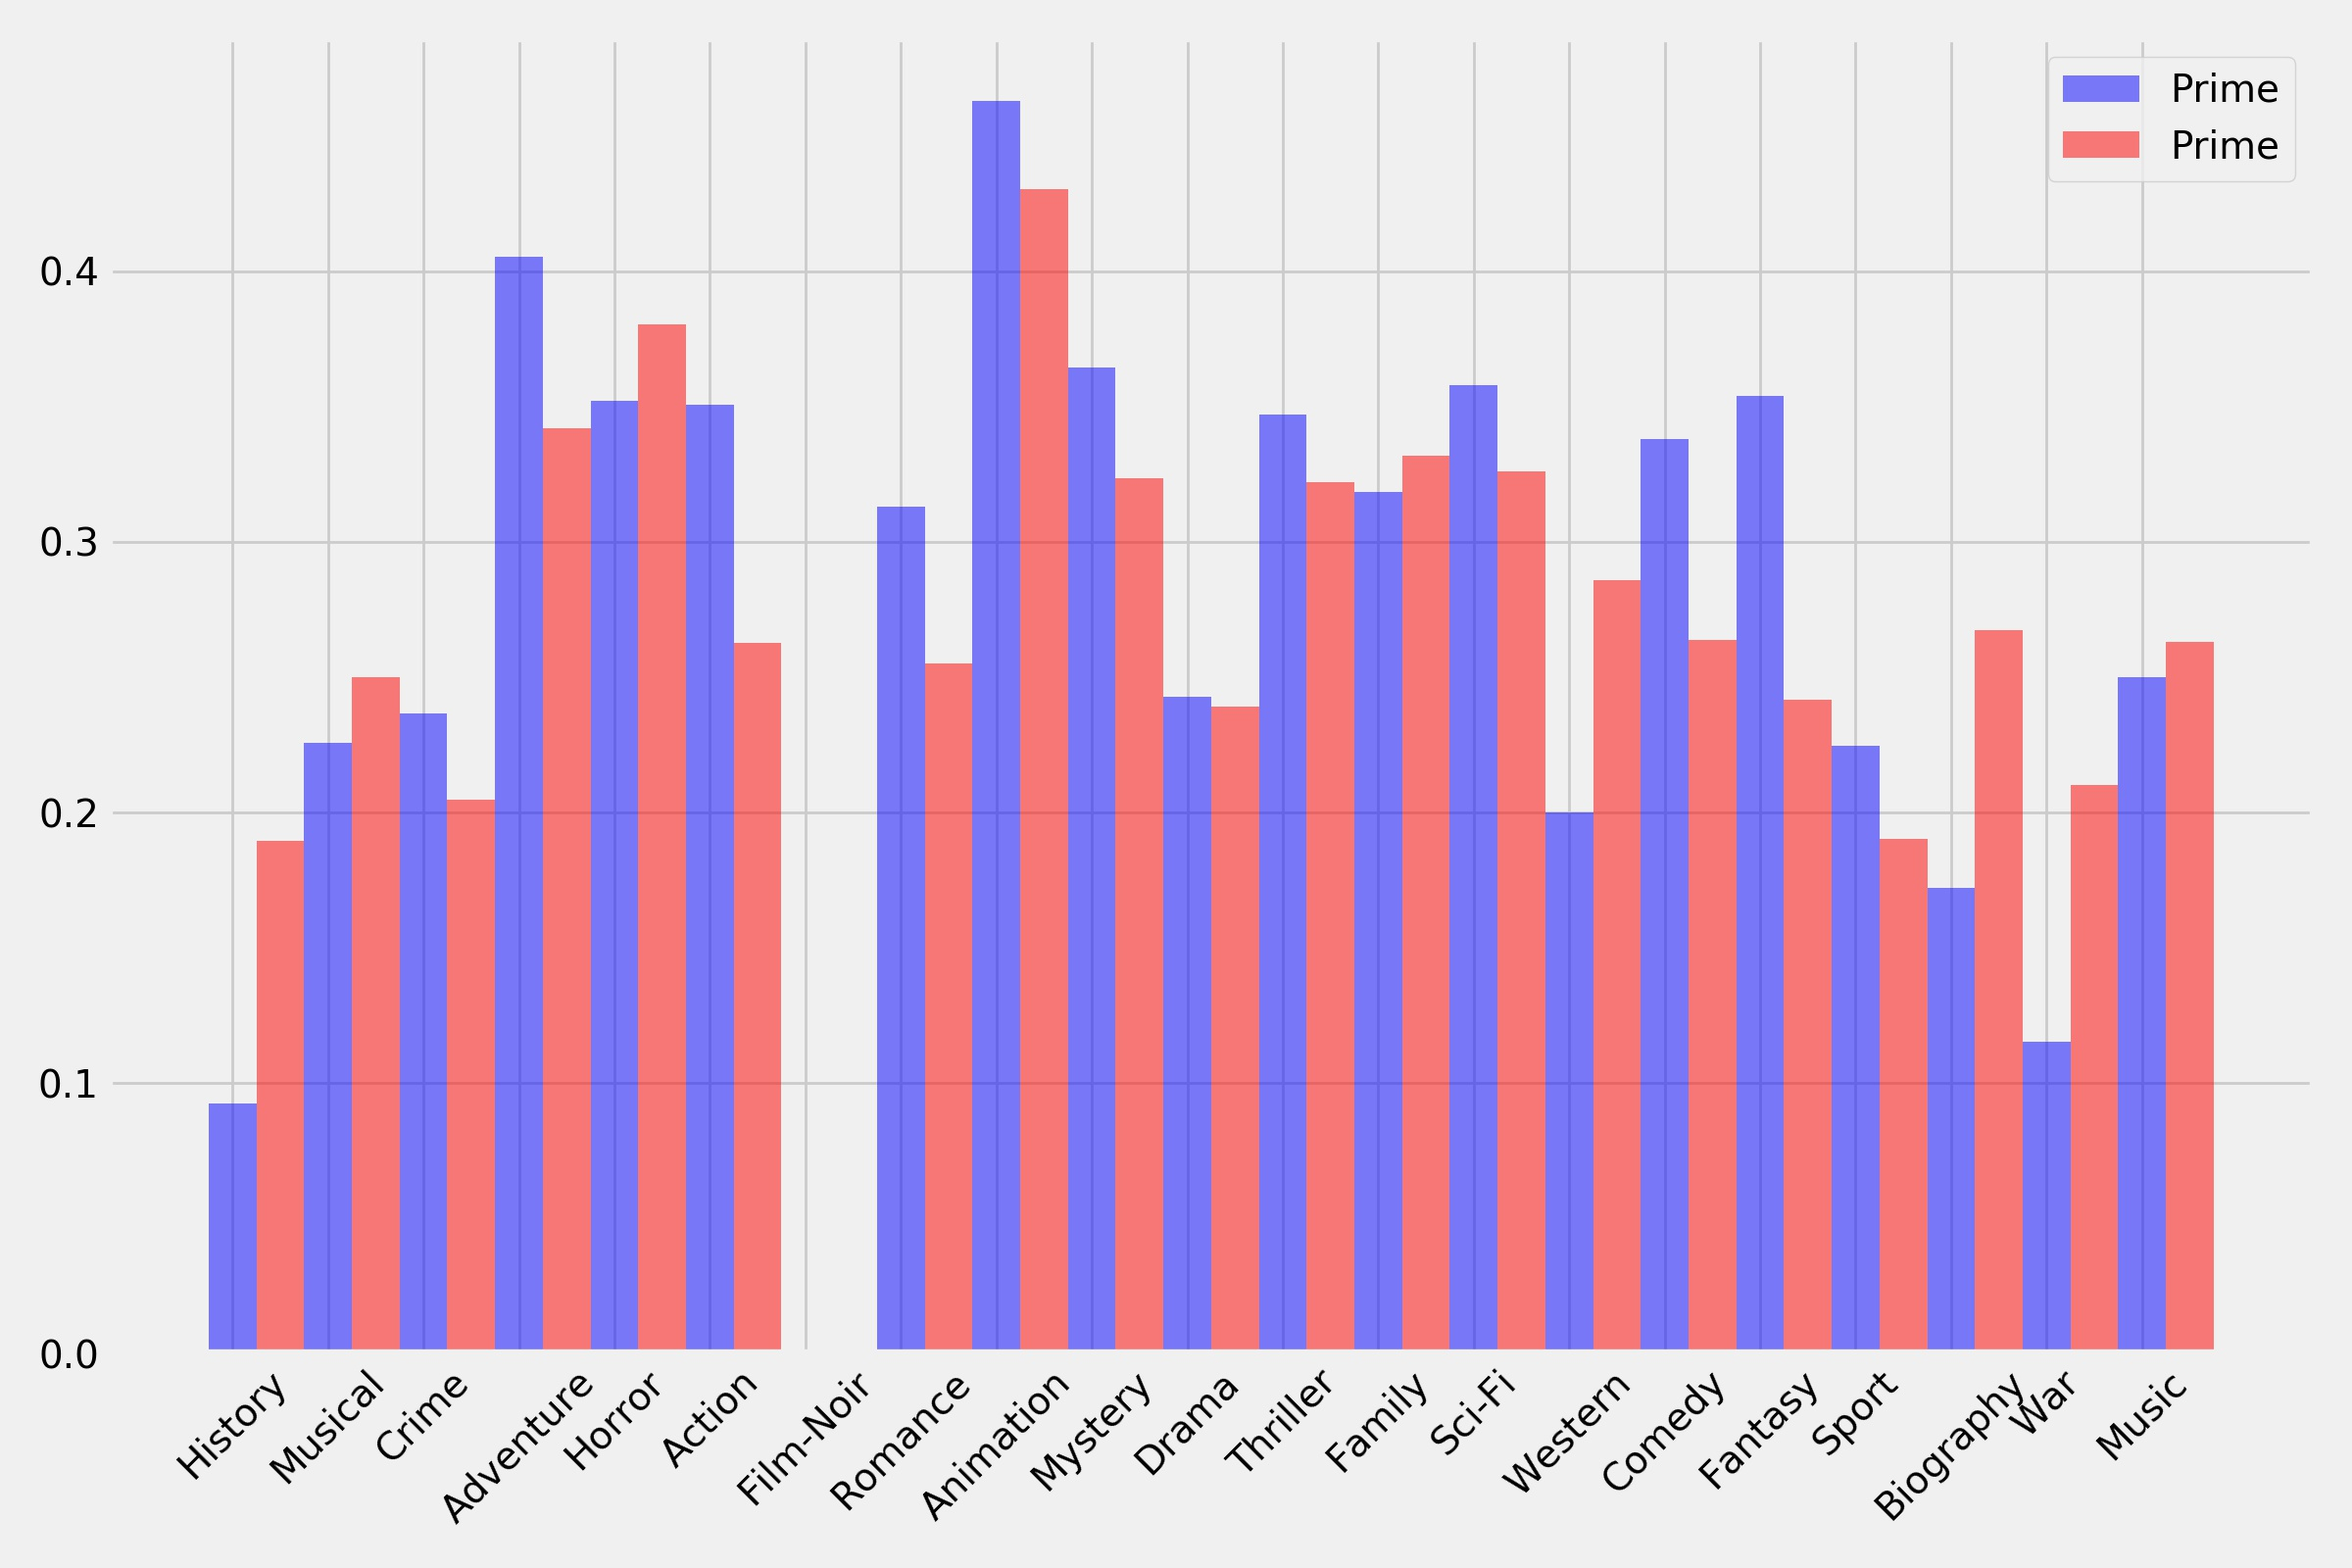
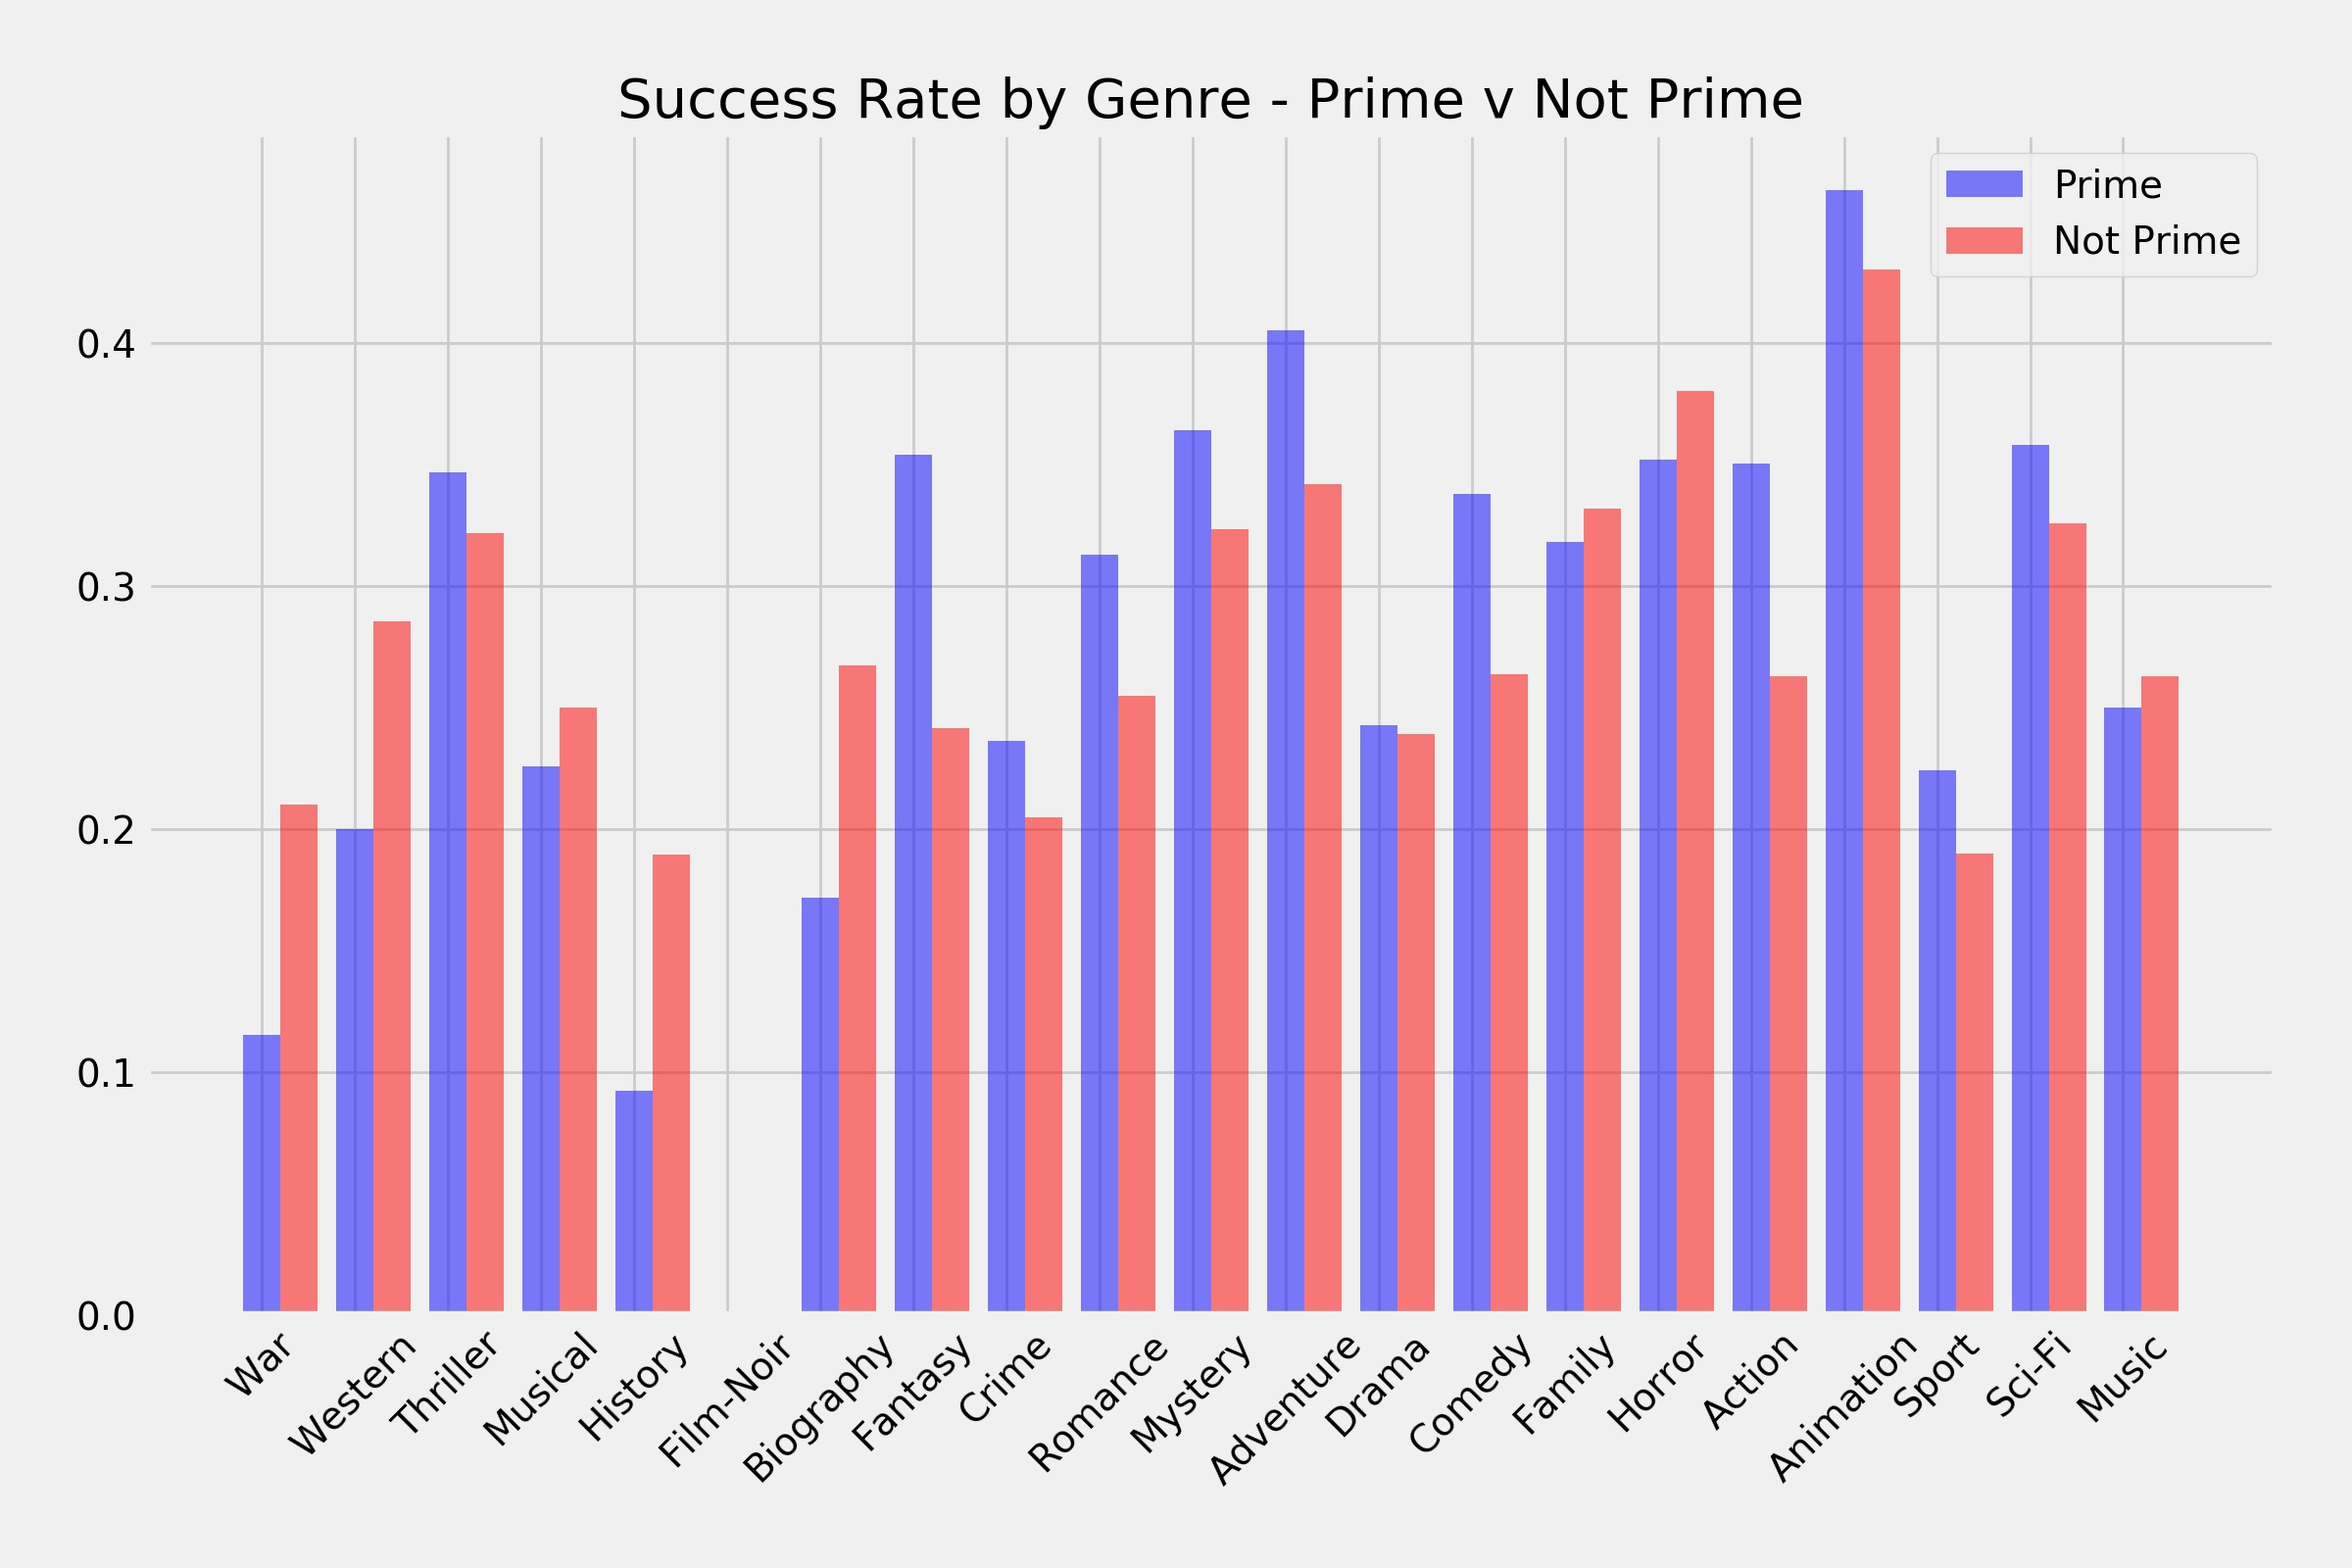
going home tues

diff --git a/src/analysis.py b/src/analysis.py
@@ -78,14 +78,14 @@ for genre in genres:
 
 fig, ax = plt.subplots(1, 1, figsize = (12, 8))
 xloc = np.arange(len(g_dict))
-width = 0.5
+width = 0.4
 ax.bar(xloc, [x['prime'] for x in g_dict.values()], width = width, color = 'b', alpha = 0.5, label = 'Prime')
-ax.bar(xloc + width, [x['not_prime'] for x in g_dict.values()], width = width, color = 'r', alpha = 0.5, label = 'Prime')
+ax.bar(xloc + width, [x['not_prime'] for x in g_dict.values()], width = width, color = 'r', alpha = 0.5, label = 'Not Prime')
 ax.set_xticks(xloc)
 ax.set_xticklabels(genres, rotation = 45)
 ax.legend()
-ax.set_title(' ')
-plt.tight_layout(pad = 1)
+ax.set_title('Success Rate by Genre - Prime v Not Prime')
+plt.tight_layout(pad = 2)
 plt.savefig('images/genre_bar.jpeg')
 plt.close()
 

diff --git a/src/movies.py b/src/movies.py
@@ -50,7 +50,9 @@ for genre in genres:
     m_df[col_name] = m_df.apply(lambda row: mf.genre_col(genre, row['genre']), axis = 1)
 
 # calculate performance metric (ww_gross / budget)
-m_df2 = m_df[m_df['budget'] != 'Not US'].copy()
+m1 = m_df['budget'] != 'Not US'
+m2 = m_df['release_date'] >= dt.dateime(1970, 1, 1)
+m_df2 = m_df[m1 & m2].copy()
 m_df2['perf_ratio'] = pd.to_numeric(m_df2['ww_gross'] / m_df2['budget'])
 success_threshold = 3
 m_df2['is_success'] = [1 if x >= success_threshold else 0 for x in m_df2['perf_ratio']]

diff --git a/presentation.md b/presentation.md
@@ -32,7 +32,8 @@ In order to understand the effects of seasonality on film performance, I filtere
 - The film must have a reported budget without which the could be no analysis of profitability/performance.
 - The film's budget must be denominated in USD. Foreign-produced films are beyond the scope of this analysis.
 - The film must have a reported US Gross revenue. If a film was made here, but never released here, it is also beyond the scope of this analysis.
-The resulting dataset is some 7200 films, dating from 1920 to 2019.
+- The film was released in 1970 or later. This cuts out the oldest 120 movies - from a time when far fewer films came out and there was much less competition.
+The resulting dataset is some 7100 films, dating from 1970 to 2019.
 
 ## Initial Observations
 
